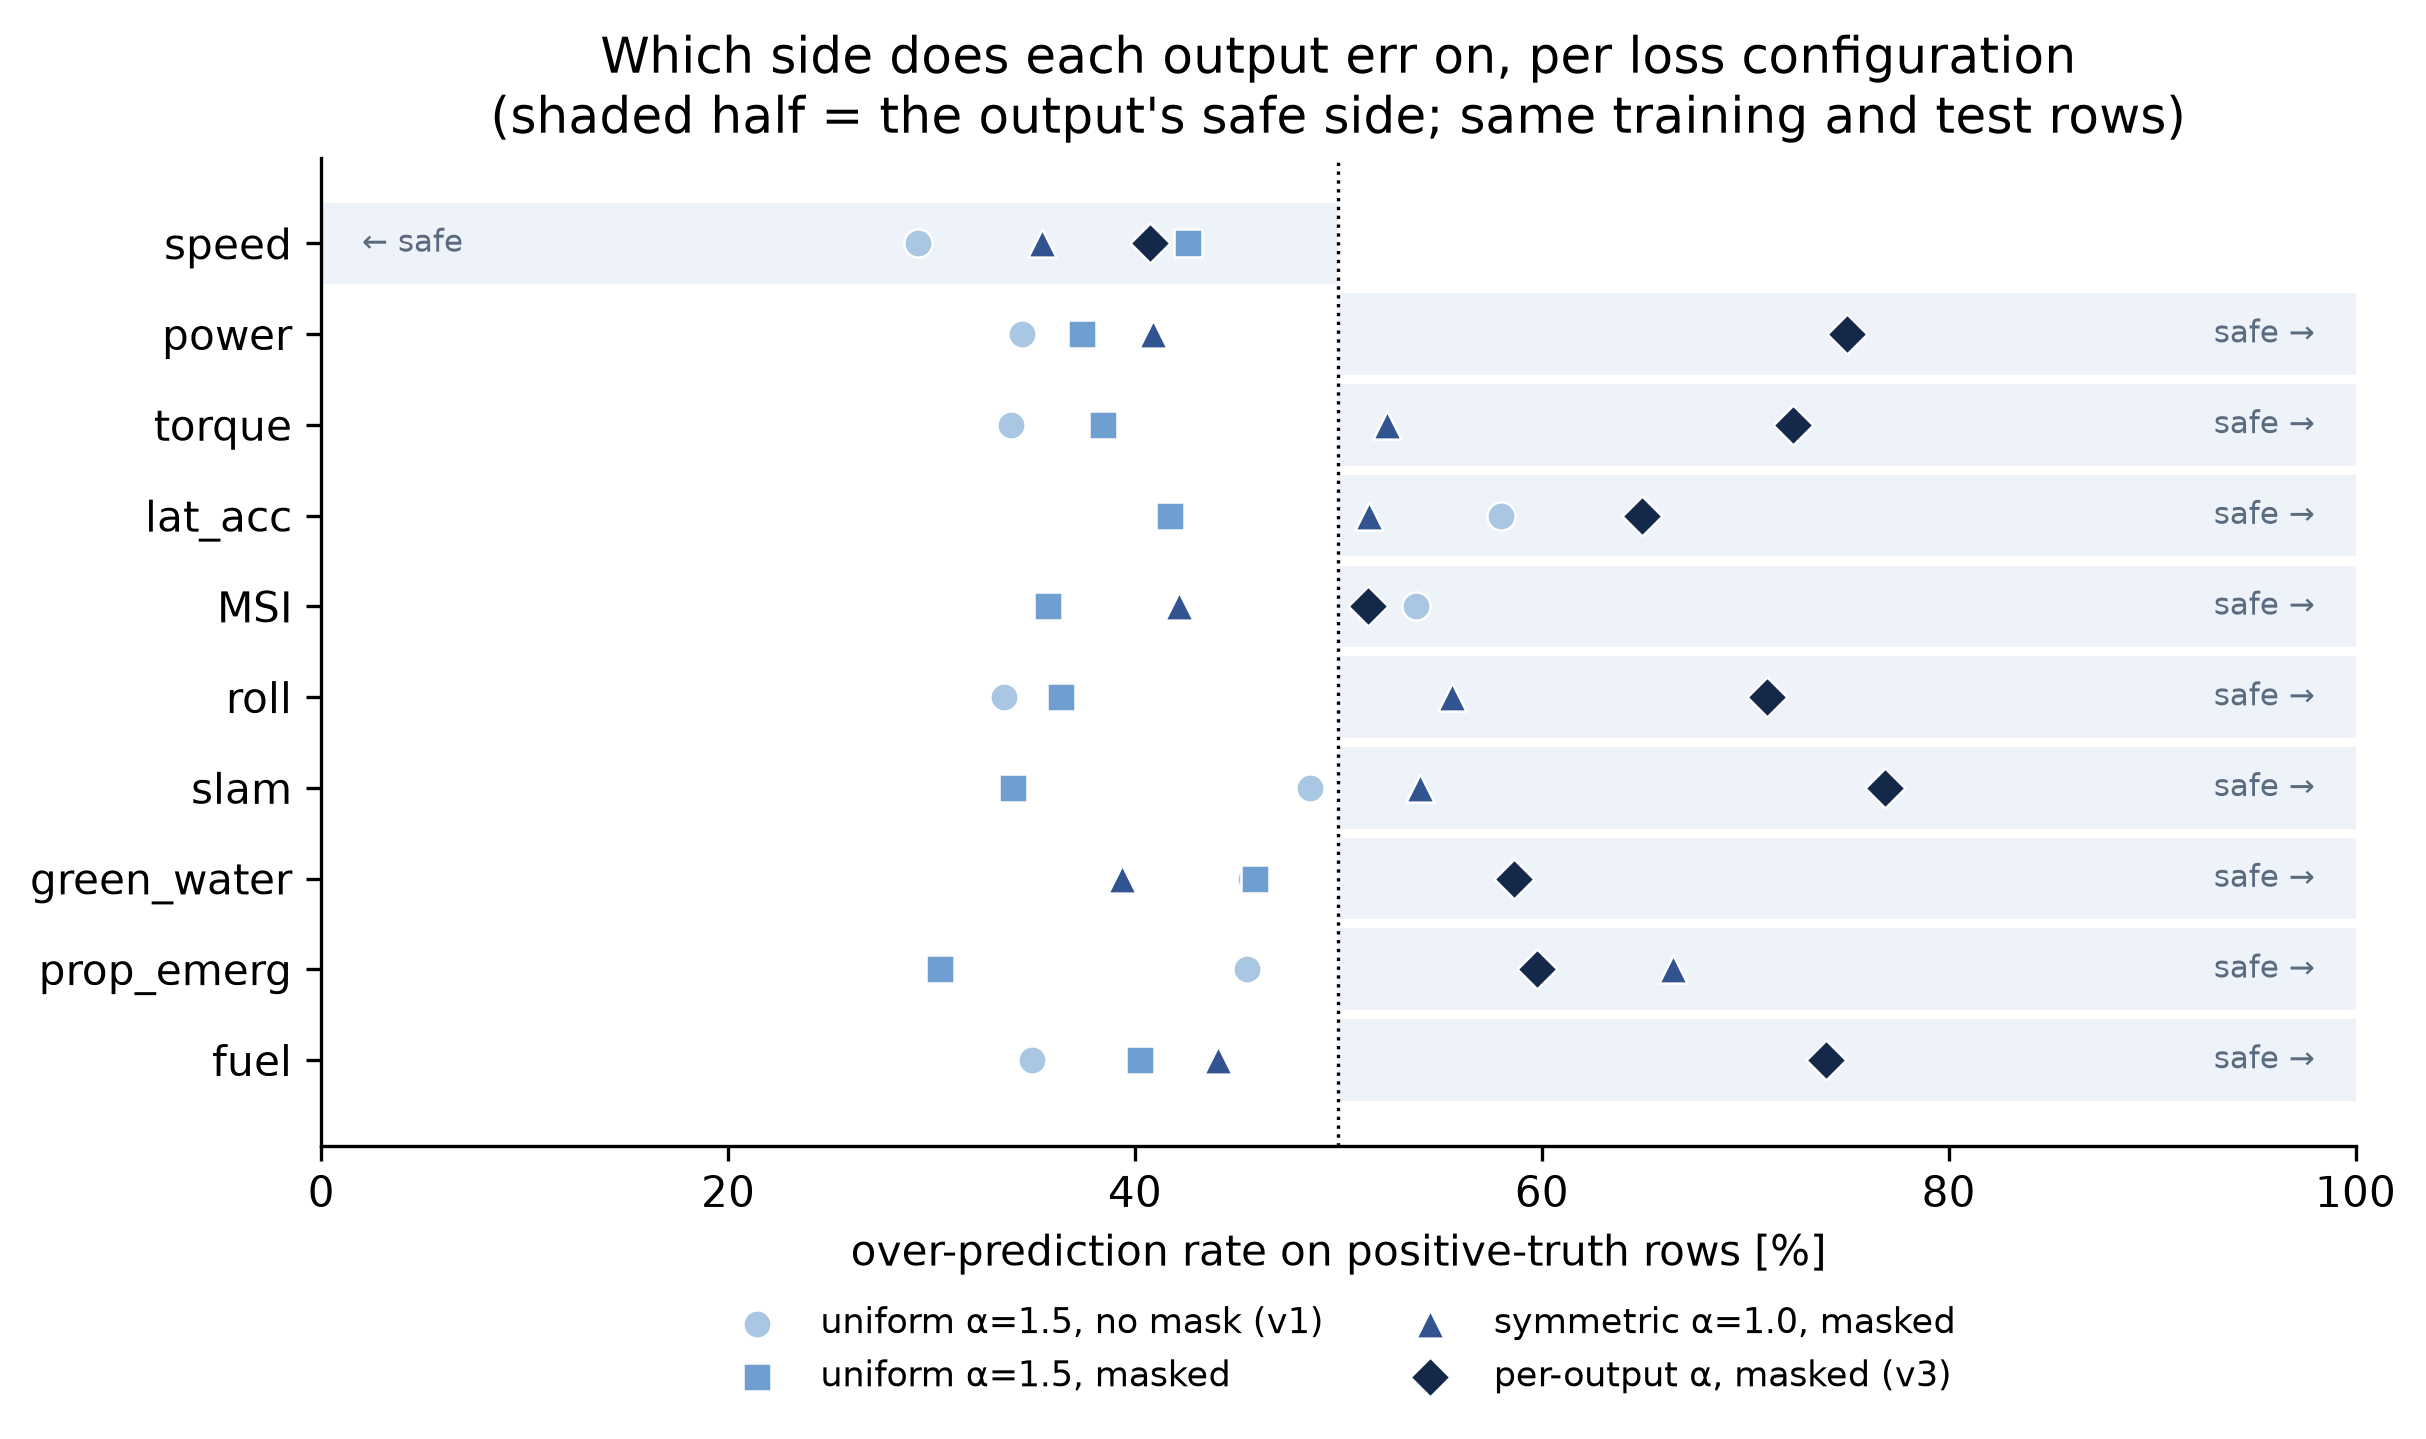
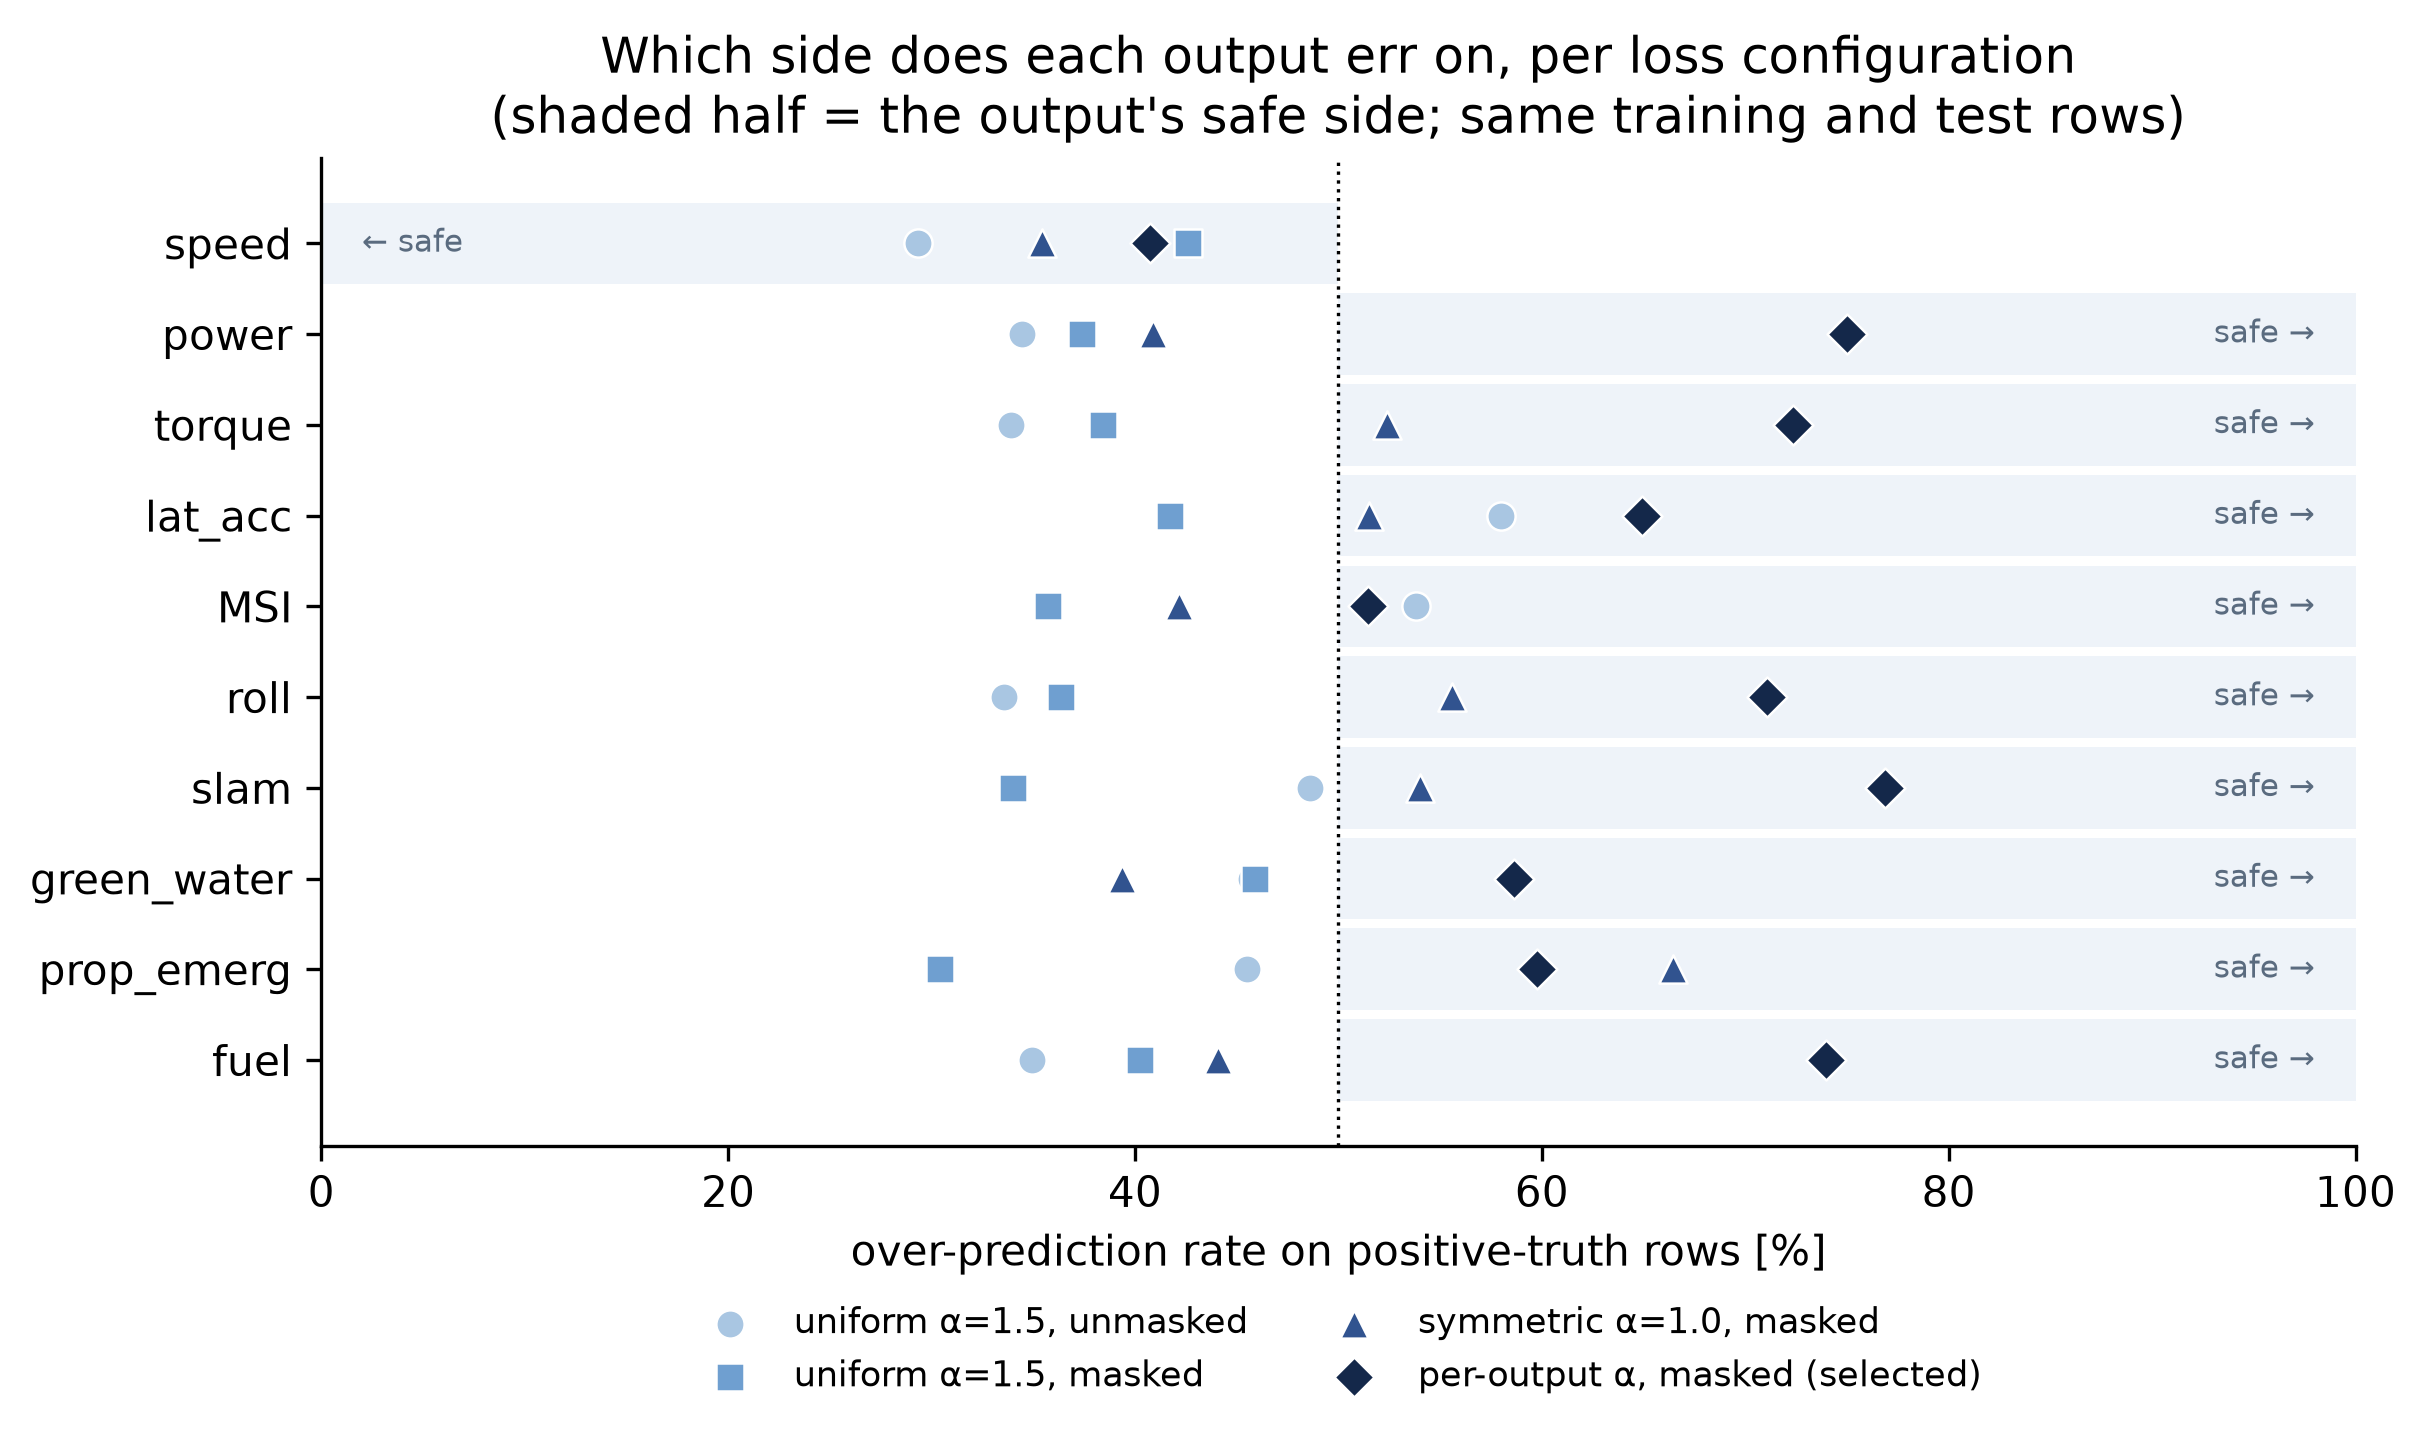
Remove internal version codenames from reader-facing ablation assets
Figure legend and generated LaTeX table now label the arms descriptively
(uniform unmasked / uniform masked / symmetric masked / per-output
selected) instead of v1/v3, which mean nothing to a reader.

Changed region(s): [[0.5565, 0.8867, 0.8038, 0.9785], [0.2782, 0.8867, 0.5256, 0.9785]]

diff --git a/scripts/12_loss_ablation.py b/scripts/12_loss_ablation.py
@@ -41,11 +41,12 @@ from s175.columns import OUTPUT_COLS, SAFE_DIRECTION
 EV = ROOT / "results" / "evaluation"
 
 # plot order: the progression toward the selected configuration, light -> dark
+# reader-facing labels: no internal version codenames (v1/v3) in paper assets
 ARMS = [
-    ("v1_original",          "uniform α=1.5, no mask (v1)", "#a9c6e2", "o"),
-    ("abl_uniform_masked",   "uniform α=1.5, masked",       "#6f9fd0", "s"),
-    ("abl_symmetric_masked", "symmetric α=1.0, masked",     "#31538f", "^"),
-    ("v3_masked_peroutput",  "per-output α, masked (v3)",   "#14284a", "D"),
+    ("v1_original",          "uniform α=1.5, unmasked",        "#a9c6e2", "o"),
+    ("abl_uniform_masked",   "uniform α=1.5, masked",          "#6f9fd0", "s"),
+    ("abl_symmetric_masked", "symmetric α=1.0, masked",        "#31538f", "^"),
+    ("v3_masked_peroutput",  "per-output α, masked (selected)", "#14284a", "D"),
 ]
 NICE = {"speed": "Ship speed", "power": "Brake power", "torque": "Brake torque",
         "lat_acc": "Lateral acc.\\ RMS", "MSI": "MSI", "roll": "Roll RMS",
@@ -84,12 +85,13 @@ def main() -> int:
         "\\begin{table*}[ht]\\centering",
         "\\caption{Loss-configuration ablation, trained under the protocol of",
         "Section~\\ref{sec:method} on the random split and scored on identical",
-        "test rows. The v1 arm reproduces the original configuration (uniform",
-        "$\\alpha=1.5$, no fuel mask, fuel-only rows dropped, batch",
-        "normalisation after the activation); the other arms share the v3 data",
-        "handling and differ only in the weighting. Cells give the",
-        "over-prediction rate on positive-truth rows; a \\checkmark{} marks an",
-        "output whose errors lie preferentially on its safe side.}",
+        "test rows. The unmasked arm additionally drops the",
+        "fuel-only-infeasible rows from training and places batch",
+        "normalisation after the activation; the three masked arms share the",
+        "data handling of the selected surrogate and differ only in the",
+        "weighting. Cells give the over-prediction rate on positive-truth",
+        "rows; a \\checkmark{} marks an output whose errors lie preferentially",
+        "on its safe side.}",
         "\\label{tab:lossablation}",
         "\\begin{tabular}{llrrrr}\\hline",
         "Output & Safe side & " + heads.replace("α", "$\\alpha$") + " \\\\ \\hline",

diff --git a/results/evaluation/latex/table_loss_ablation.tex b/results/evaluation/latex/table_loss_ablation.tex
@@ -2,15 +2,16 @@
 \begin{table*}[ht]\centering
 \caption{Loss-configuration ablation, trained under the protocol of
 Section~\ref{sec:method} on the random split and scored on identical
-test rows. The v1 arm reproduces the original configuration (uniform
-$\alpha=1.5$, no fuel mask, fuel-only rows dropped, batch
-normalisation after the activation); the other arms share the v3 data
-handling and differ only in the weighting. Cells give the
-over-prediction rate on positive-truth rows; a \checkmark{} marks an
-output whose errors lie preferentially on its safe side.}
+test rows. The unmasked arm additionally drops the
+fuel-only-infeasible rows from training and places batch
+normalisation after the activation; the three masked arms share the
+data handling of the selected surrogate and differ only in the
+weighting. Cells give the over-prediction rate on positive-truth
+rows; a \checkmark{} marks an output whose errors lie preferentially
+on its safe side.}
 \label{tab:lossablation}
 \begin{tabular}{llrrrr}\hline
-Output & Safe side & uniform $\alpha$=1.5, no mask (v1) & uniform $\alpha$=1.5, masked & symmetric $\alpha$=1.0, masked & per-output $\alpha$, masked (v3) \\ \hline
+Output & Safe side & uniform $\alpha$=1.5, unmasked & uniform $\alpha$=1.5, masked & symmetric $\alpha$=1.0, masked & per-output $\alpha$, masked (selected) \\ \hline
 Ship speed & under & 29.3\,\checkmark & 42.6\,\checkmark & 35.4\,\checkmark & 40.7\,\checkmark \\
 Brake power & over & 34.4 & 37.4 & 40.9 & 75.0\,\checkmark \\
 Brake torque & over & 33.9 & 38.4 & 52.4\,\checkmark & 72.4\,\checkmark \\
